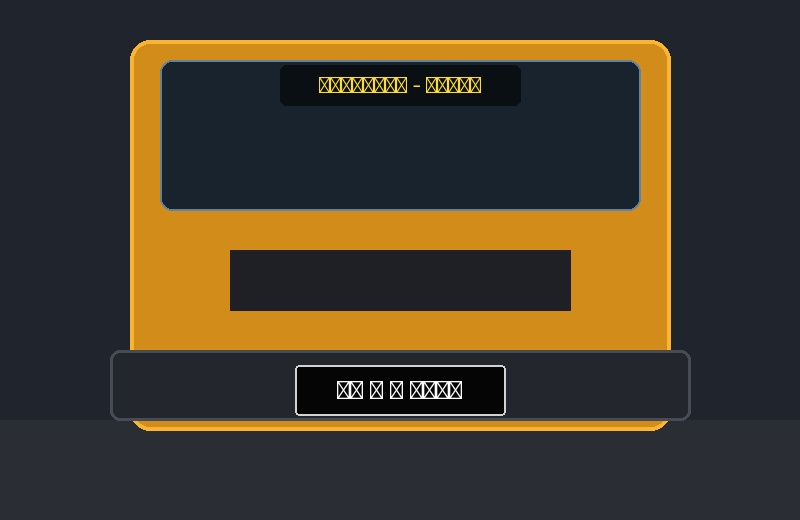
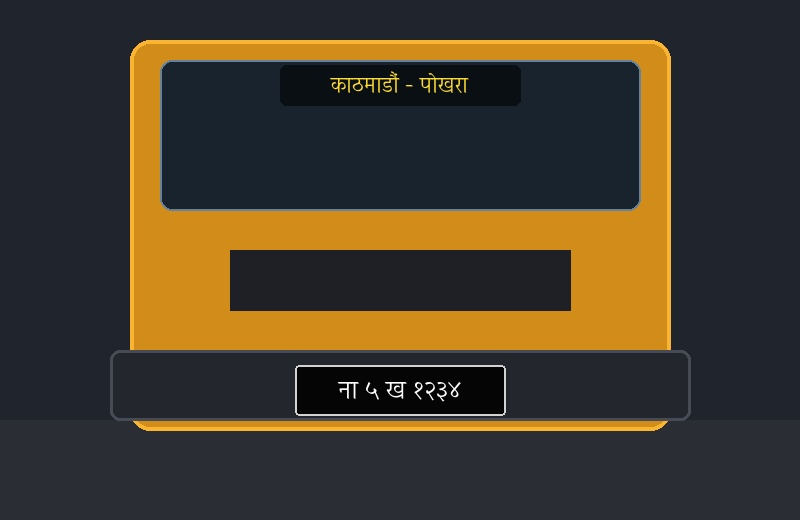
feat: add color-based plate localization and NMS deduplication for license plates

Changed region(s): [[0.375, 0.1231, 0.625, 0.1846], [0.4062, 0.7077, 0.5938, 0.7692]]

diff --git a/detector.py b/detector.py
@@ -301,9 +301,82 @@ class ANPRDetector:
         candidates.sort(key=lambda c: c["area"], reverse=True)
         return candidates[:3]  # Return top 3 candidates
 
+    def _detect_plates_color(self, crop: np.ndarray) -> List[Dict[str, Any]]:
+        """
+        Segment plates based on Nepal's distinct license plate color standards:
+        - Red (निजी): Private two-wheelers and four-wheelers
+        - Black (सार्वजनिक): Public buses, trucks, taxis
+        - White (इम्बोस्ड / सरकारी): High-security embossed and government plates
+        - Green (विद्युतीय): Electric Vehicles (EV)
+        """
+        h, w = crop.shape[:2]
+        if h < 25 or w < 35:
+            return []
+
+        hsv = cv2.cvtColor(crop, cv2.COLOR_BGR2HSV)
+        candidates = []
+
+        # 1. Red Plates (Private)
+        lower_r1, upper_r1 = np.array([0, 60, 50]), np.array([12, 255, 255])
+        lower_r2, upper_r2 = np.array([168, 60, 50]), np.array([180, 255, 255])
+        red_mask = cv2.inRange(hsv, lower_r1, upper_r1) | cv2.inRange(hsv, lower_r2, upper_r2)
+
+        # 2. Black Plates (Public transport / Taxi / Freight)
+        black_mask = cv2.inRange(hsv, np.array([0, 0, 0]), np.array([180, 100, 60]))
+
+        # 3. White Plates (Embossed / Government)
+        white_mask = cv2.inRange(hsv, np.array([0, 0, 175]), np.array([180, 55, 255]))
+
+        # 4. Green Plates (EV Electric Vehicles)
+        green_mask = cv2.inRange(hsv, np.array([35, 60, 50]), np.array([85, 255, 255]))
+
+        combined_masks = [
+            ("red_private", red_mask),
+            ("black_public", black_mask),
+            ("white_embossed", white_mask),
+            ("green_ev", green_mask),
+        ]
+
+        crop_area = h * w
+        for tag, mask in combined_masks:
+            # Morphological cleanup
+            kernel = cv2.getStructuringElement(cv2.MORPH_RECT, (5, 5))
+            cleaned_mask = cv2.morphologyEx(mask, cv2.MORPH_CLOSE, kernel)
+            contours, _ = cv2.findContours(cleaned_mask, cv2.RETR_EXTERNAL, cv2.CHAIN_APPROX_SIMPLE)
+
+            for cnt in contours:
+                x, y, bw, bh = cv2.boundingRect(cnt)
+                area = bw * bh
+                aspect_ratio = float(bw) / float(bh)
+
+                # Plate size constraints
+                if not (0.008 * crop_area <= area <= 0.40 * crop_area):
+                    continue
+                if bw < 35 or bh < 18:
+                    continue
+
+                # Aspect ratio: 0.9 - 5.5
+                if 0.9 <= aspect_ratio <= 5.5:
+                    pad_x = int(bw * 0.05)
+                    pad_y = int(bh * 0.08)
+                    cx1 = max(0, x - pad_x)
+                    cy1 = max(0, y - pad_y)
+                    cx2 = min(w, x + bw + pad_x)
+                    cy2 = min(h, y + bh + pad_y)
+
+                    candidates.append({
+                        "bbox": (cx1, cy1, cx2, cy2),
+                        "conf": 0.72,
+                        "method": f"color_{tag}",
+                        "area": area,
+                    })
+
+        candidates.sort(key=lambda c: c["area"], reverse=True)
+        return candidates[:3]
+
     def locate_plates(self, vehicle_crop: np.ndarray, vehicle_type: str) -> List[Dict[str, Any]]:
         """
-        Multi-tier plate localization coordinator. Tries YOLO -> Haar -> Morphological.
+        Multi-tier plate localization coordinator. Tries YOLO -> Haar -> Color -> Morphological.
         """
         plates = []
 
@@ -315,22 +388,21 @@ class ANPRDetector:
         if not plates and self.plate_cascade is not None:
             plates = self._detect_plates_haar(vehicle_crop)
 
-        # 3. Autonomous Morphological Segmenter
+        # 3. Nepal-specific Color Segmenter (Red, Black, White, Green)
+        if not plates:
+            plates = self._detect_plates_color(vehicle_crop)
+
+        # 4. Autonomous Morphological Segmenter
         if not plates:
             plates = self._detect_plates_morphological(vehicle_crop, vehicle_type)
 
-        # 4. Fallback: If still nothing detected, check the lower third of vehicle
-        # where plates are universally mounted
+        # 5. Fallback: If still nothing detected, check the lower third and center of vehicle
         if not plates and vehicle_crop.size > 0:
             vh, vw = vehicle_crop.shape[:2]
-            if vh >= 60 and vw >= 80:
-                # Lower third sub-region
-                fy1 = int(vh * 0.65)
-                fy2 = int(vh * 0.98)
-                fx1 = int(vw * 0.15)
-                fx2 = int(vw * 0.85)
+            if vh >= 50 and vw >= 70:
+                # Lower region
                 plates.append({
-                    "bbox": (fx1, fy1, fx2, fy2),
+                    "bbox": (int(vw * 0.15), int(vh * 0.45), int(vw * 0.85), int(vh * 0.95)),
                     "conf": 0.50,
                     "method": "heuristic_crop",
                 })
@@ -646,29 +718,57 @@ class ANPRDetector:
 
                 detections.append(detection_record)
 
-                # Check anti-duplicate rule and insert to database
-                if not database.was_recently_seen(standardized, within_seconds=6):
-                    try:
-                        database.insert_detection(
-                            plate_number=raw_text,
-                            standardized_plate=standardized,
-                            devanagari_display=devanagari_display,
-                            script=script,
-                            plate_type=plate_type,
-                            zone_or_province=zone_or_prov,
-                            vehicle_type=vehicle["label"],
-                            vehicle_category=veh_cat,
-                            confidence=overall_conf,
-                            ocr_confidence=ocr_conf,
-                            detector_confidence=plate["conf"],
-                            source=source_name,
-                            plate_crop_path=crop_path_rel,
-                            processing_time_ms=round((time.time() - start_time) * 1000, 2),
-                        )
-                    except Exception as db_err:
-                        print(f"[PlateVision] Database insert error: {db_err}")
+        # Stage 5: Deduplicate overlapping detections (NMS & Same Plate consolidation)
+        unique_detections = []
+        for det in sorted(detections, key=lambda d: d["confidence"], reverse=True):
+            is_dup = False
+            for u in unique_detections:
+                # Same plate text
+                if det["standardized_plate"] and det["standardized_plate"] == u["standardized_plate"]:
+                    is_dup = True
+                    break
+                # Bounding box IoU overlap check
+                b1 = det["plate_bbox"]
+                b2 = u["plate_bbox"]
+                ix1, iy1 = max(b1[0], b2[0]), max(b1[1], b2[1])
+                ix2, iy2 = min(b1[2], b2[2]), min(b1[3], b2[3])
+                iw, ih = max(0, ix2 - ix1), max(0, iy2 - iy1)
+                inter = iw * ih
+                a1 = (b1[2] - b1[0]) * (b1[3] - b1[1])
+                a2 = (b2[2] - b2[0]) * (b2[3] - b2[1])
+                iou = inter / float(a1 + a2 - inter + 1e-6)
+                if iou > 0.35:
+                    is_dup = True
+                    break
+            if not is_dup:
+                unique_detections.append(det)
 
-        # Stage 5: Render Sleek Glassy Annotations on Frame
+        detections = unique_detections
+
+        # Log deduplicated detections to database
+        for det in detections:
+            if not database.was_recently_seen(det["standardized_plate"], within_seconds=6):
+                try:
+                    database.insert_detection(
+                        plate_number=det["plate_number"],
+                        standardized_plate=det["standardized_plate"],
+                        devanagari_display=det["devanagari_display"],
+                        script=det["script"],
+                        plate_type=det["plate_type"],
+                        zone_or_province=det["zone_or_province"],
+                        vehicle_type=det["vehicle_type"],
+                        vehicle_category=det["vehicle_category"],
+                        confidence=det["confidence"],
+                        ocr_confidence=det["ocr_confidence"],
+                        detector_confidence=det["detector_confidence"],
+                        source=source_name,
+                        plate_crop_path=det["plate_crop_path"],
+                        processing_time_ms=round((time.time() - start_time) * 1000, 2),
+                    )
+                except Exception as db_err:
+                    print(f"[PlateVision] Database insert error: {db_err}")
+
+        # Stage 6: Render Sleek Glassy Annotations on Frame
         annotated_frame = self._draw_modern_annotations(frame, detections)
         return annotated_frame, detections
 

diff --git a/generate_samples.py b/generate_samples.py
@@ -22,16 +22,23 @@ SAMPLES_DIR.mkdir(parents=True, exist_ok=True)
 def get_font(size: int = 24):
     """Attempts to find a system font supporting Unicode/Devanagari, or falls back to default."""
     font_paths = [
-        "/System/Library/Fonts/KohinoorBangla.ttc",
-        "/System/Library/Fonts/Supplemental/DevanagariMT.ttc",
-        "/System/Library/Fonts/Supplemental/Arial Unicode.ttf",
-        "/System/Library/Fonts/Helvetica.ttc",
-        "/System/Library/Fonts/SFNS.ttf",
+        ("/System/Library/Fonts/Supplemental/ITFDevanagari.ttc", 0),
+        ("/System/Library/Fonts/Supplemental/DevanagariMT.ttc", 0),
+        ("/System/Library/Fonts/Supplemental/Devanagari Sangam MN.ttc", 0),
+        ("/System/Library/Fonts/Helvetica.ttc", 0),
     ]
-    for p in font_paths:
+    for p, idx in font_paths:
         if os.path.exists(p):
             try:
-                return ImageFont.truetype(p, size)
+                return ImageFont.truetype(p, size, index=idx)
+            except Exception:
+                continue
+def get_latin_font(size: int = 24):
+    """Returns a clean Latin font for Embossed English text."""
+    for p in ["/System/Library/Fonts/Helvetica.ttc", "/System/Library/Fonts/Supplemental/Arial.ttf", "/System/Library/Fonts/SFNS.ttf"]:
+        if os.path.exists(p):
+            try:
+                return ImageFont.truetype(p, size, index=0)
             except Exception:
                 continue
     return ImageFont.load_default()
@@ -132,11 +139,11 @@ def create_sample_embossed():
     draw.rounded_rectangle([(240, 280), (560, 350)], radius=5, fill=(245, 247, 250), outline=(20, 20, 25), width=3)
 
     # Top line: BAGMATI PROVINCE
-    font_top = get_font(18)
+    font_top = get_latin_font(20)
     draw.text((400, 298), "BAGMATI PROVINCE", fill=(20, 25, 30), font=font_top, anchor="mm")
 
     # Bottom line: 02-035 PA 5678
-    font_bot = get_font(28)
+    font_bot = get_latin_font(30)
     draw.text((400, 328), "02-035 PA 5678", fill=(10, 15, 20), font=font_bot, anchor="mm")
 
     path = SAMPLES_DIR / "sample_embossed_plate.jpg"
